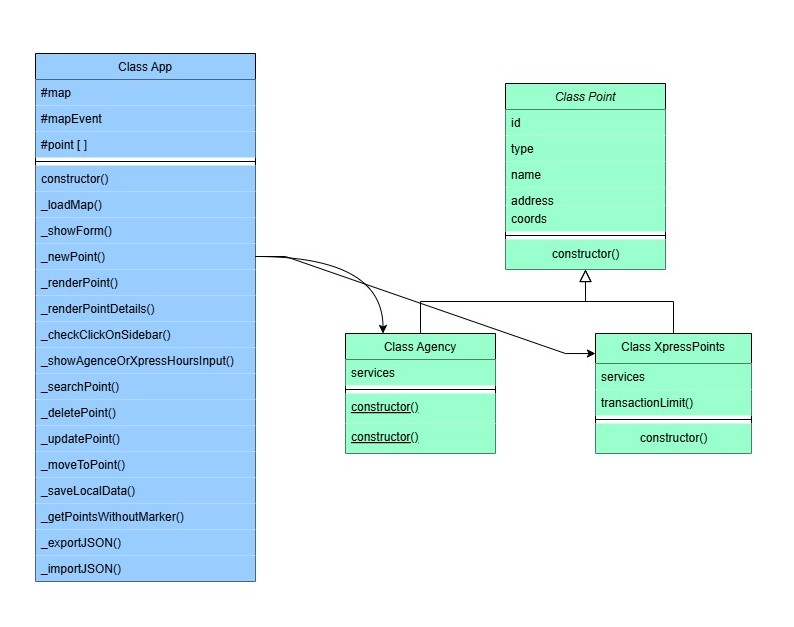
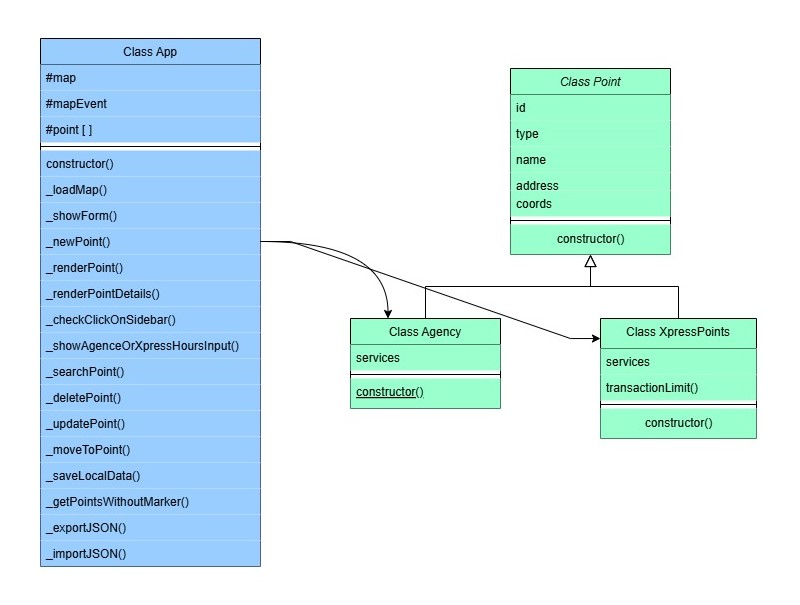
Rectification de l'architecture de la class Agency

Changed region(s): [[0.0302, 0.0595, 0.4534, 0.9521], [0.4232, 0.0893, 0.9673, 0.7438]]

diff --git a/script.js b/script.js
@@ -510,7 +510,7 @@ class App {
         this.#points.forEach((point) => {
           this._renderPoint(point);
           this._renderPointDetails(point);
-          this._saveLocalData()
+          this._saveLocalData();
         });
         console.log(this.#points);
       })
